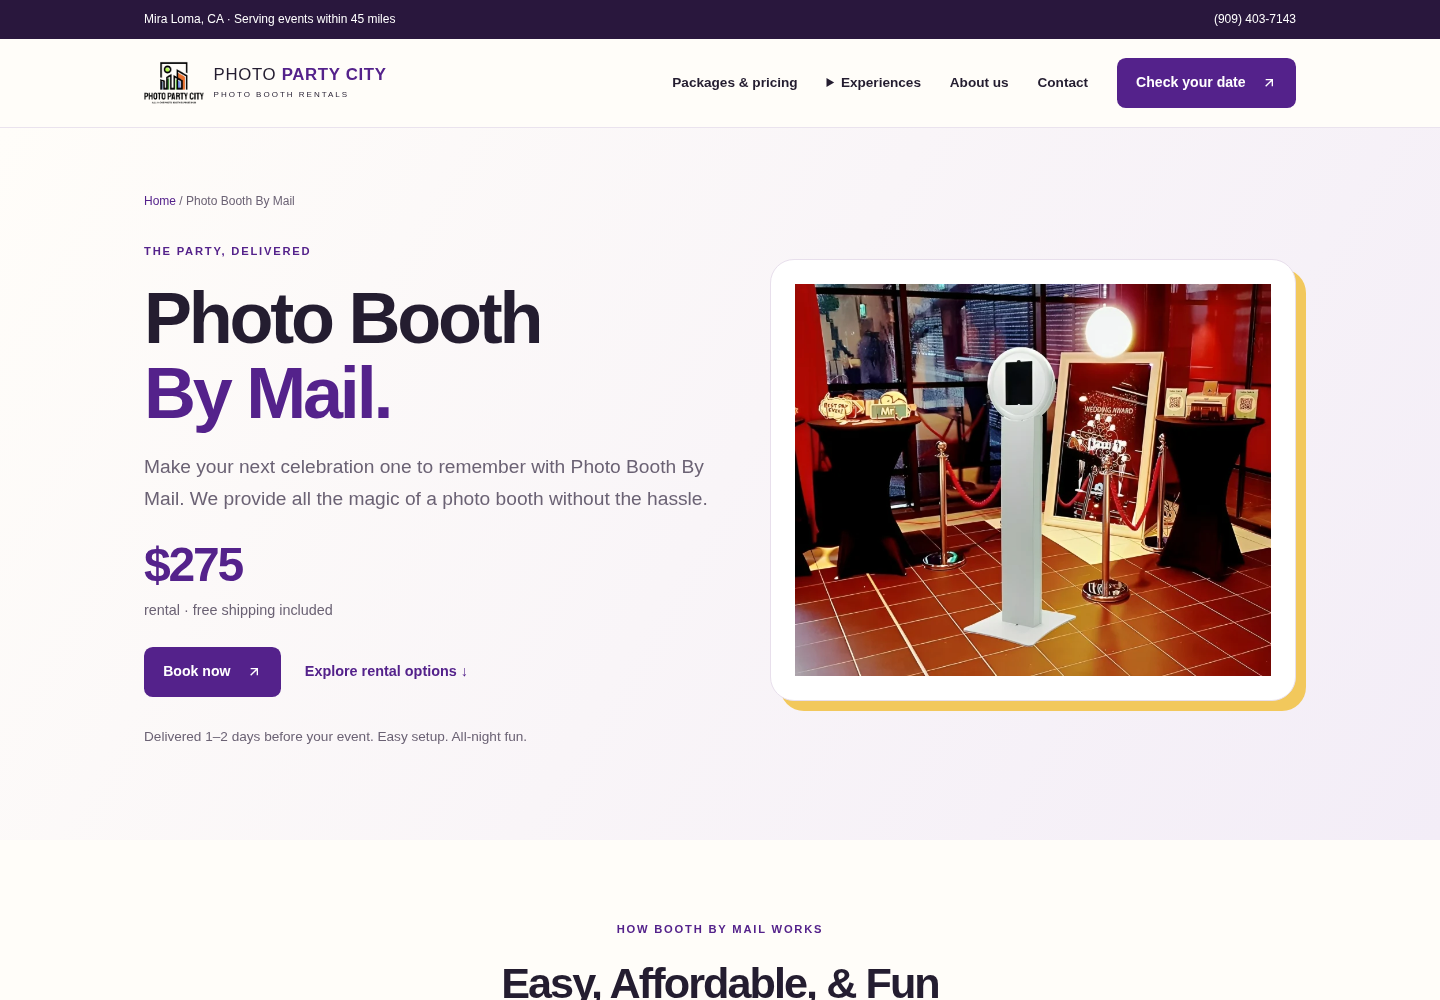
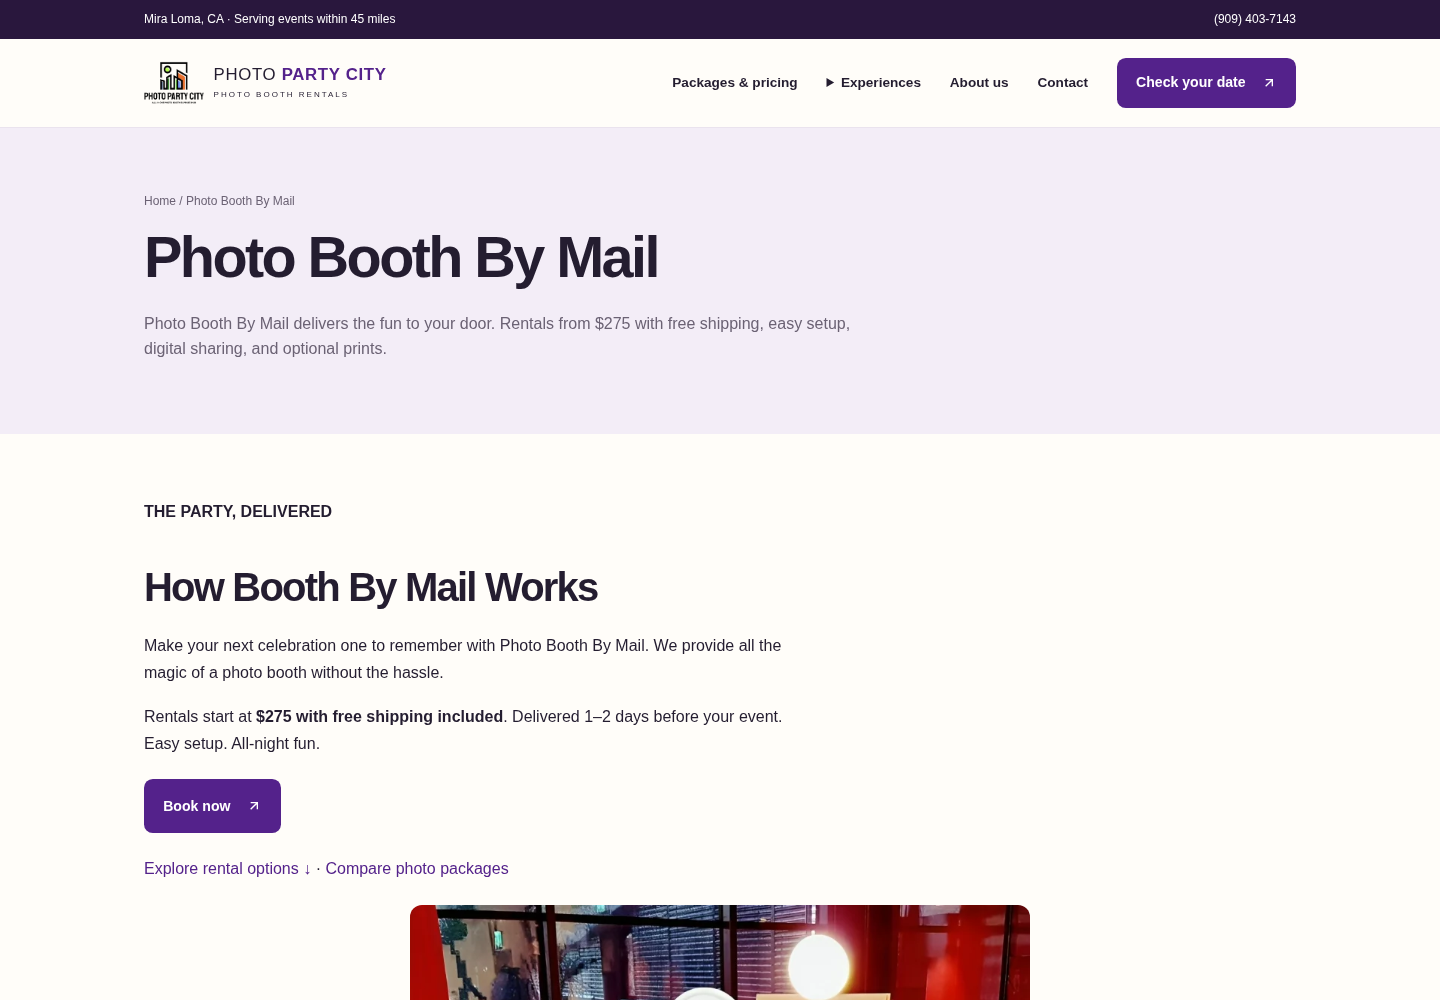
Match booth by mail to shared service page layout

diff --git a/docs/photo-booth-by-mail/README.md b/docs/photo-booth-by-mail/README.md
@@ -2,6 +2,10 @@
 
 Recreated `/photo-booth-by-mail/` in the Astro project for Cloudflare Pages, using the public WordPress page as the content reference on 2026-10-15. No WordPress changes or form submissions were made.
 
+The page now follows the corporate rental page's service-page structure: shared `PageHeading`, `.page-body` and `.content`, a single content column, standard image blocks, headings, lists, pricing panel and form styles. It has no page-specific CSS. Rental details, option lists, policies, booking destination, metadata and schema remain unchanged.
+
+At both screenshot widths, browser checks compare the title banner, heading, body and content widths, padding, fonts, line heights and background colors against `/corporate-photo-booth-rental/`. Reference screenshots are [desktop](corporate-reference-1440.png) and [mobile](corporate-reference-390.png).
+
 The page keeps the $275 rental price, original delivery/return/cancellation policies, $40 hotspot option, all five option lists, and six FAQs. Booking uses the source page's Booth By Mail Eventdeskly destination. The page is linked from the Experiences menu and footer.
 
 The inquiry form prepares a draft addressed to `hello@photopartycity.com`, consistent with the site's existing forms. It clearly explains that the visitor must send the draft and that an inquiry does not confirm a reservation. Its native mailto action and contact details remain available without JavaScript. No email delivery service or payment backend was added.
